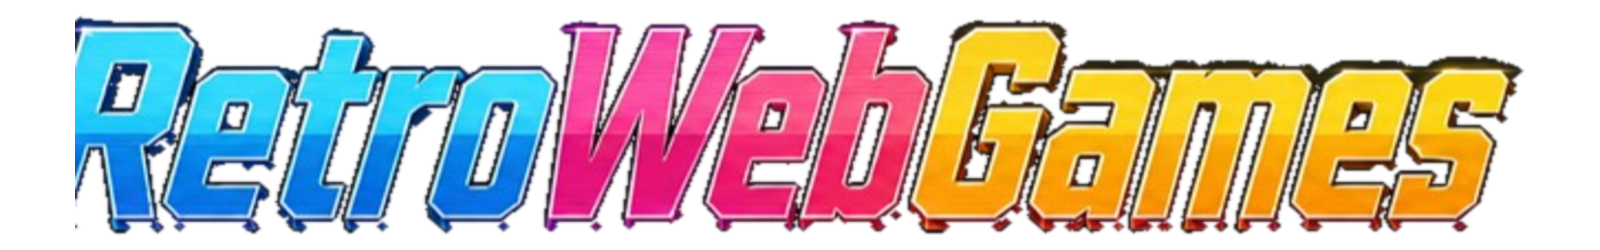
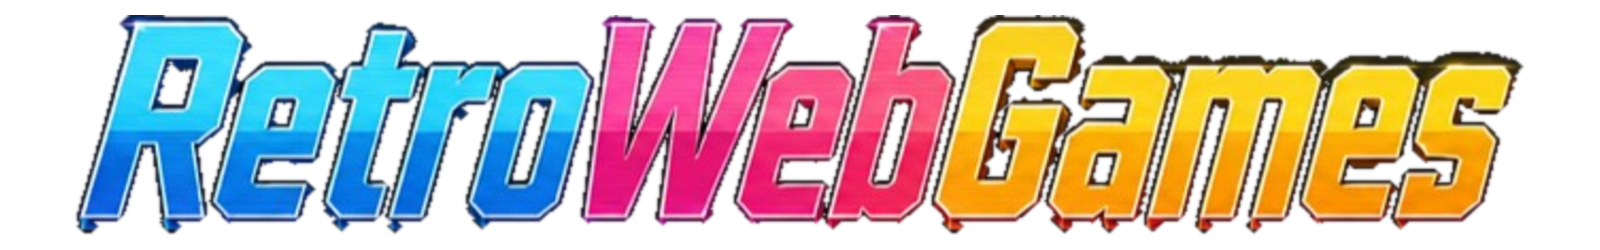
fix(home): preserve full wordmark and delay PWA notice

diff --git a/pwa-install.js b/pwa-install.js
@@ -99,7 +99,7 @@
       notice.hidden = false;
       requestAnimationFrame(() => notice.classList.add('is-visible'));
       window.setTimeout(dismissNotice, 10000);
-    }, 500);
+    }, 2000);
   }
 
   window.addEventListener('beforeinstallprompt', event => {

diff --git a/scripts/generate-brand-wordmark.py b/scripts/generate-brand-wordmark.py
@@ -31,11 +31,11 @@ with tempfile.TemporaryDirectory(prefix="rwg-wordmark-") as tmp_name:
 
     # The wider crop includes the whole final S; edge bands are explicitly
     # excluded from alpha so no source-cover decorations can leak into the logo.
-    run(SRC, "-crop", "697x130+420+255", "+repage", crop)
+    run(SRC, "-crop", "720x150+405+245", "+repage", crop)
     run(crop, "-colorspace", "Gray", "-threshold", "12%",
-        "-morphology", "Open", "Disk:1", "-morphology", "Dilate", "Disk:1",
+        "-morphology", "Open", "Disk:2", "-morphology", "Dilate", "Disk:1",
         "-blur", "0x0.5", "-fill", "black",
-        "-draw", "rectangle 0,0 24,129 rectangle 683,0 696,129", alpha)
+        "-draw", "rectangle 0,0 7,149 rectangle 703,0 719,149 rectangle 0,0 719,12 rectangle 0,135 719,149", alpha)
     for channel, target in (("R", red), ("G", green), ("B", blue)):
         run(crop, "-channel", channel, "-separate", target)
     run(red, green, blue, alpha, "-channel", "RGBA", "-combine", rgba)

diff --git a/AGENTS.md b/AGENTS.md
@@ -345,4 +345,4 @@ The social validator inventory must cover home, every standalone public page (cu
 
 ## PWA install contract — REQUIRED
 
-The home install UI is centralized in `pwa-install.js` and `pwa-install.css`. Keep the 500 ms first-visit notice one-time via `rwg.pwa.install.notice.v1`, retain the persistent card after the game list, hide both in standalone mode, and never pretend iOS supports a programmable install prompt: its CTA must show Share → Add to Home Screen guidance. All Chromium install CTAs must consume the same deferred `beforeinstallprompt`; do not call it from duplicated handlers. Keep `sw.js` root-scoped and network-first so online deploys are not masked by stale cache. The home wordmark must remain complete on a transparent safety canvas and render with `object-fit: contain`, centered positioning, visible overflow and a page gutter. Run `node scripts/validate-pwa-install.mjs`.
+The home install UI is centralized in `pwa-install.js` and `pwa-install.css`. Keep the 2-second first-visit notice one-time via `rwg.pwa.install.notice.v1`, retain the persistent card after the game list, hide both in standalone mode, and never pretend iOS supports a programmable install prompt: its CTA must show Share → Add to Home Screen guidance. All Chromium install CTAs must consume the same deferred `beforeinstallprompt`; do not call it from duplicated handlers. Keep `sw.js` root-scoped and network-first so online deploys are not masked by stale cache. The home wordmark must remain complete on a transparent safety canvas and render with `object-fit: contain`, centered positioning, visible overflow and a page gutter. Run `node scripts/validate-pwa-install.mjs`.

diff --git a/README.md b/README.md
@@ -249,4 +249,4 @@ RetroWebGames è un tributo ai generi arcade classici. Codice, nomi e grafica de
 
 ## Installazione PWA
 
-La home offre due superfici condivise e non invasive: un avviso slide-in dopo 500 ms, mostrato una sola volta per browser, e una card dopo la lista giochi. `pwa-install.js` conserva il prompt nativo Chromium, gestisce il completamento e fornisce la procedura obbligatoria Share → Aggiungi alla schermata Home su iOS. `sw.js` usa una cache network-first per mantenere freschi i deploy online e offrire un fallback offline. La wordmark home deriva dalla cover approvata e conserva margini trasparenti più un gutter CSS, così nessun glifo può essere tagliato. Contratti e limiti sono in `docs/PWA-INSTALL.md` e `scripts/validate-pwa-install.mjs`.
+La home offre due superfici condivise e non invasive: un avviso slide-in dopo 2 secondi, mostrato una sola volta per browser, e una card dopo la lista giochi. `pwa-install.js` conserva il prompt nativo Chromium, gestisce il completamento e fornisce la procedura obbligatoria Share → Aggiungi alla schermata Home su iOS. `sw.js` usa una cache network-first per mantenere freschi i deploy online e offrire un fallback offline. La wordmark home deriva dalla cover approvata e conserva margini trasparenti più un gutter CSS, così nessun glifo può essere tagliato. Contratti e limiti sono in `docs/PWA-INSTALL.md` e `scripts/validate-pwa-install.mjs`.

diff --git a/docs/ARCHITECTURE.md b/docs/ARCHITECTURE.md
@@ -231,4 +231,4 @@ Neon Tilt production responses must allow accelerometer/gyroscope through `Permi
 
 ## PWA installation flow
 
-The home owns the install-acquisition layer. `pwa-install.js` captures `beforeinstallprompt`, shows the first-visit notice after 500 ms only once, controls the persistent end-of-list card, hides both surfaces in standalone mode and provides an explicit iOS system-instruction fallback. `sw.js` is root-scoped and network-first, caching successful same-origin responses only for offline fallback. UI lives in `pwa-install.css`; games and shared Game Over must not duplicate install prompts. See `docs/PWA-INSTALL.md`.
+The home owns the install-acquisition layer. `pwa-install.js` captures `beforeinstallprompt`, shows the first-visit notice after 2 seconds only once, controls the persistent end-of-list card, hides both surfaces in standalone mode and provides an explicit iOS system-instruction fallback. `sw.js` is root-scoped and network-first, caching successful same-origin responses only for offline fallback. UI lives in `pwa-install.css`; games and shared Game Over must not duplicate install prompts. See `docs/PWA-INSTALL.md`.

diff --git a/docs/PWA-INSTALL.md b/docs/PWA-INSTALL.md
@@ -4,7 +4,7 @@ RetroWebGames is installable from the home page as a lightweight Progressive Web
 
 ## User flow
 
-- On the first home visit only, after 500 ms, a compact notice slides in from the top.
+- On the first home visit only, after 2 seconds, a compact notice slides in from the top.
 - The notice is recorded under `rwg.pwa.install.notice.v1` in localStorage, with a cookie fallback if storage is unavailable.
 - A permanent install card follows the game list until the app is running in standalone mode or installation completes.
 - Chromium browsers use the deferred `beforeinstallprompt` event: the CTA opens the native install prompt directly.
